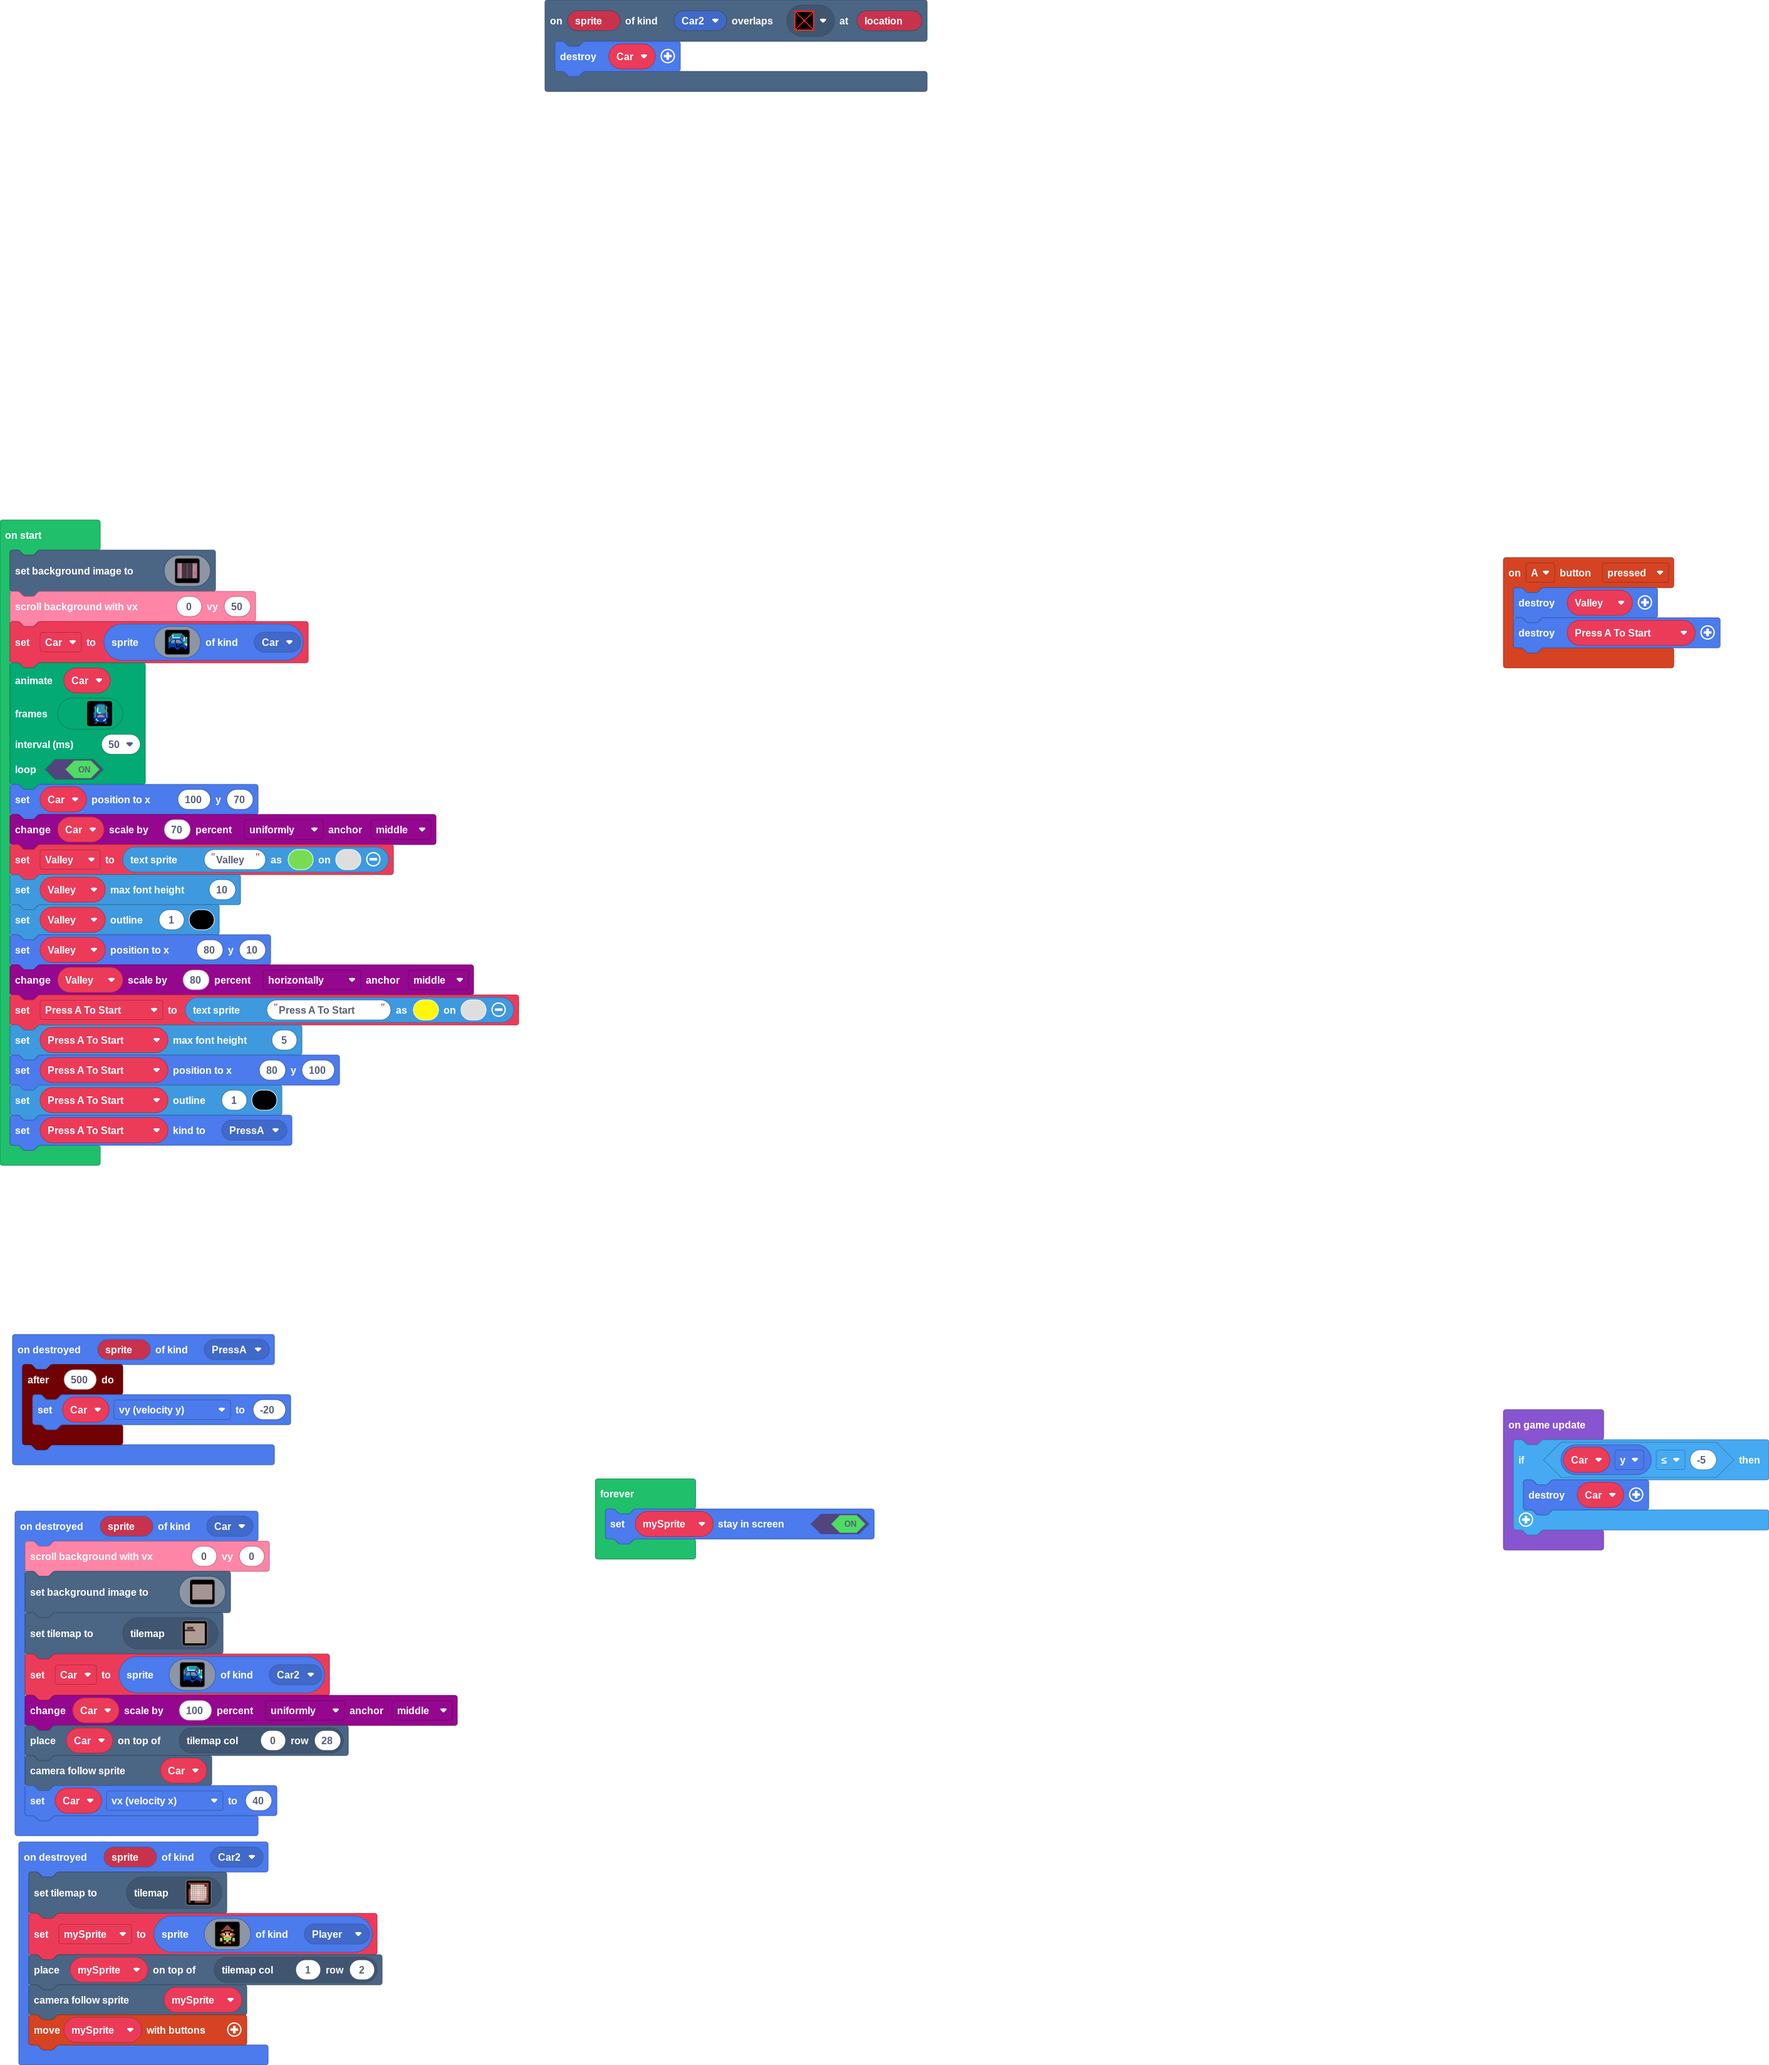
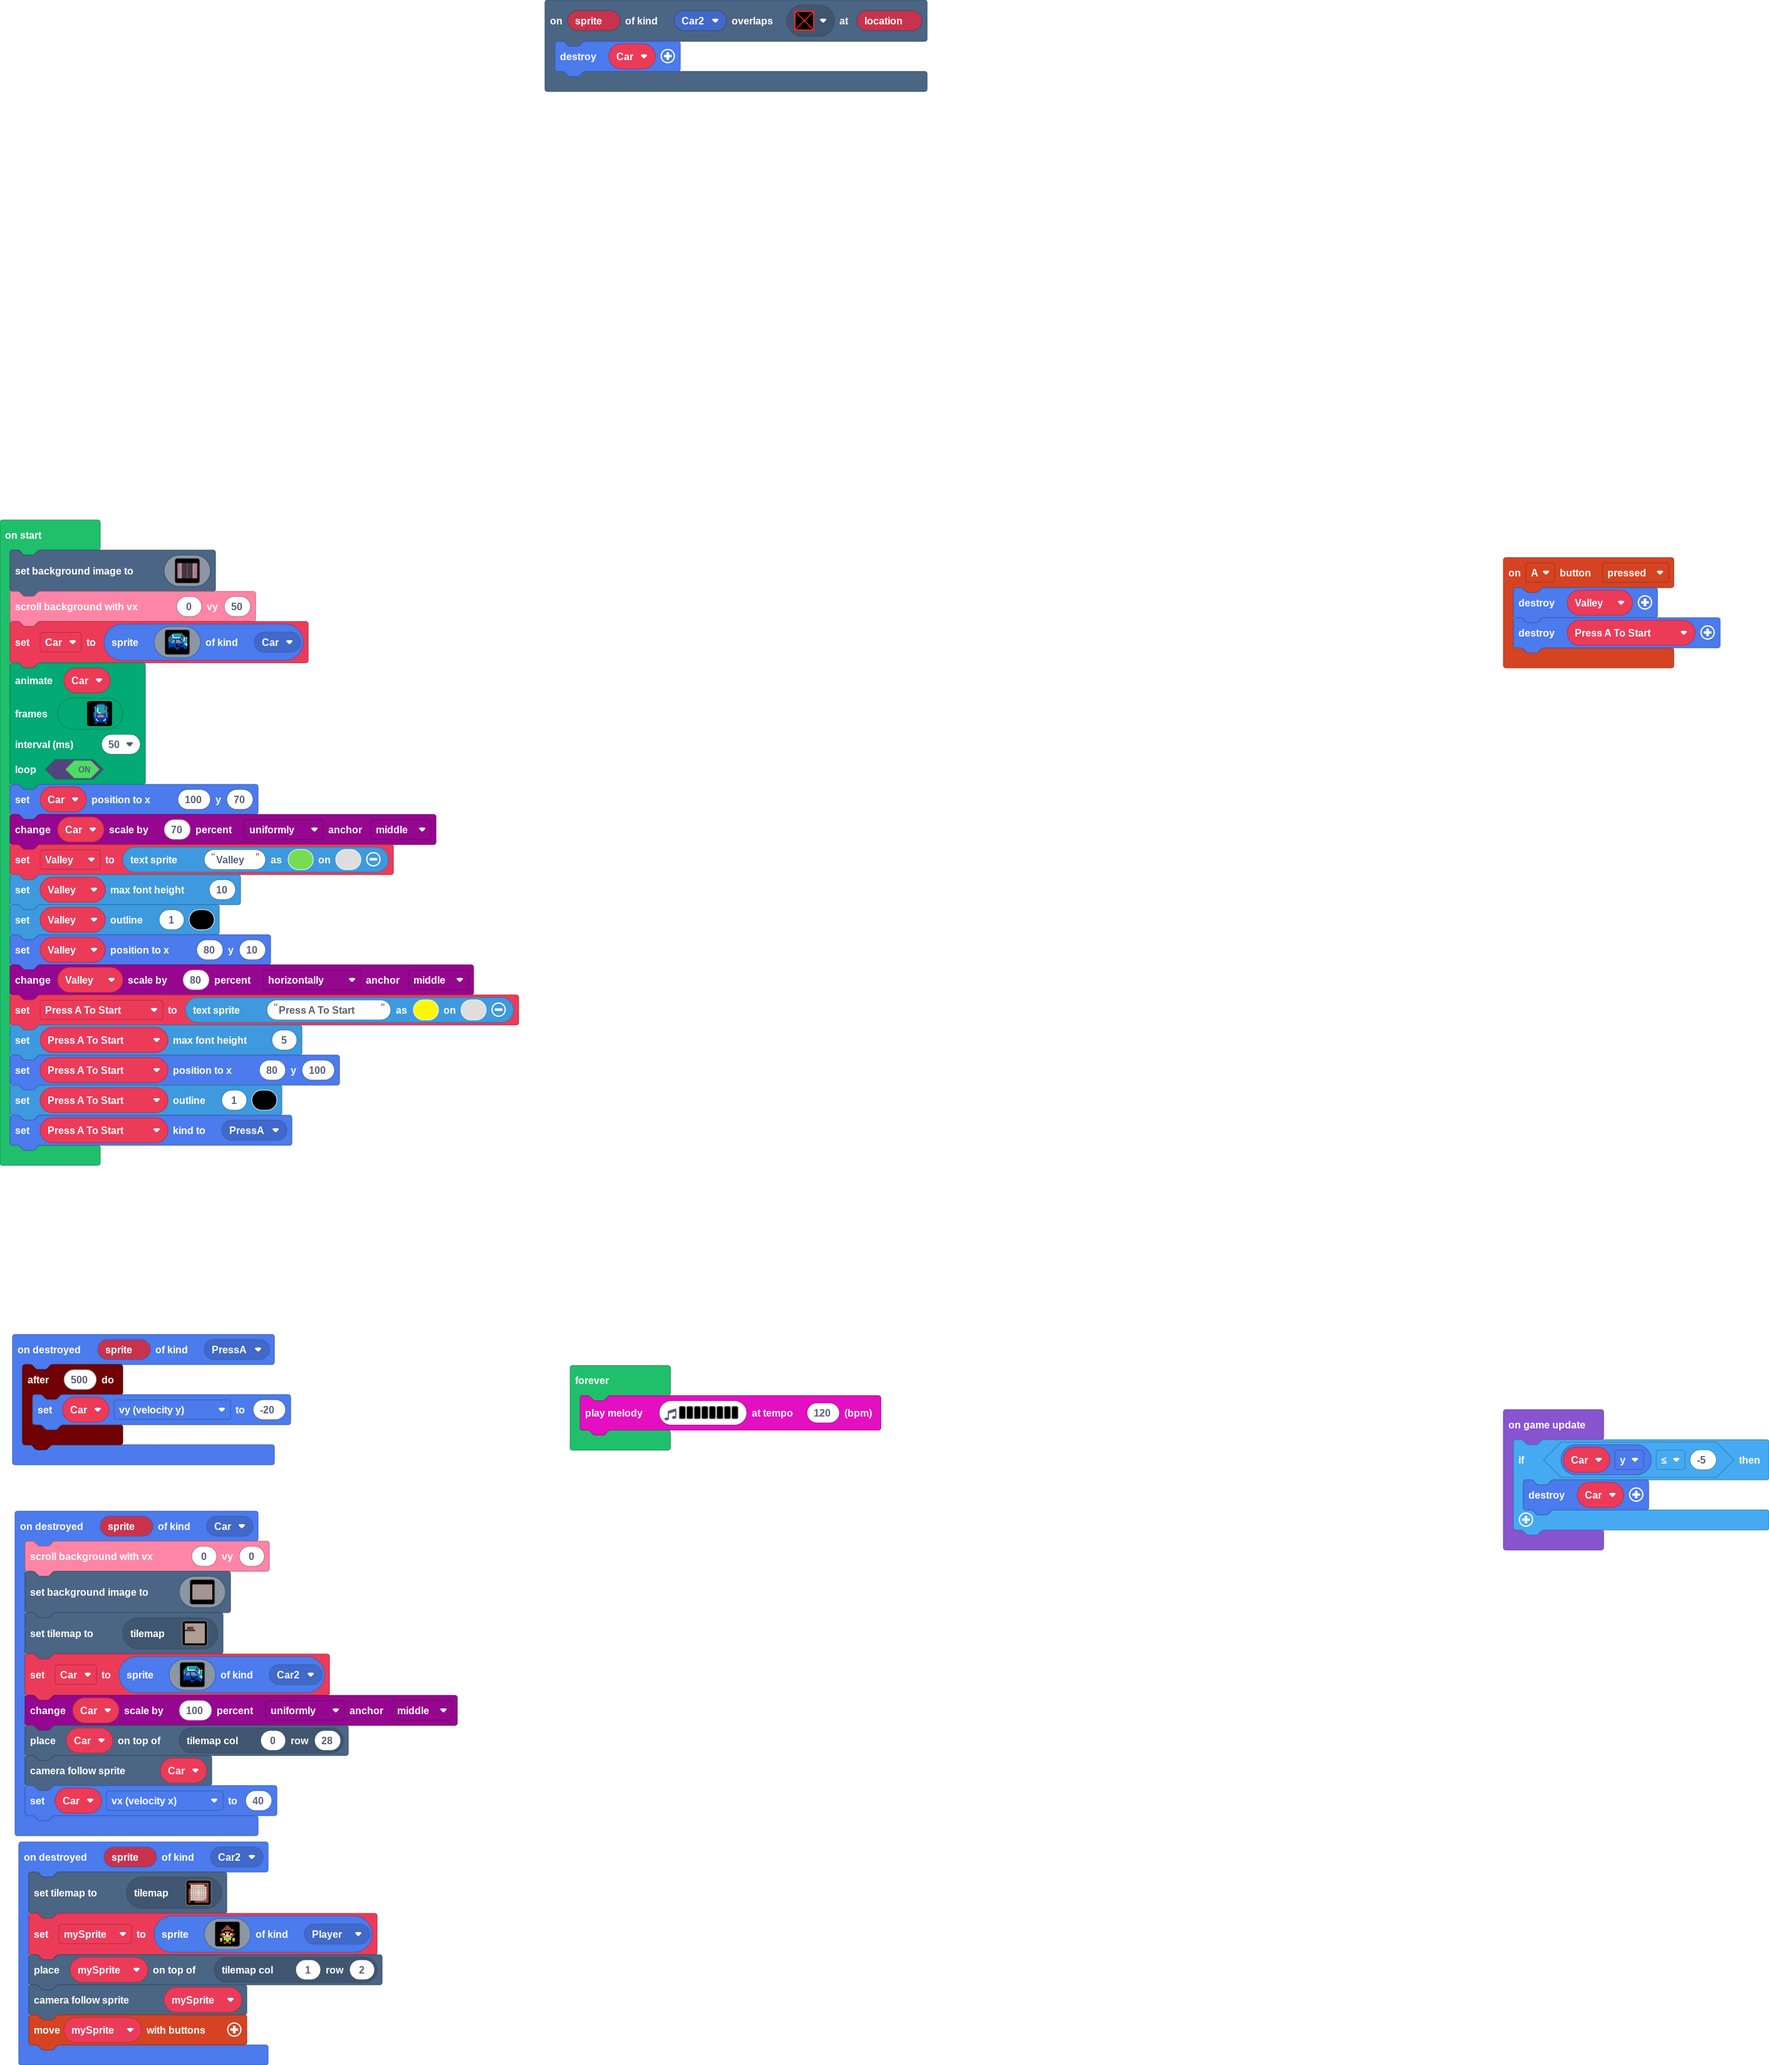
Update main.blocks, main.ts

Changed region(s): [[0.3116, 0.6562, 0.4986, 0.7812]]

diff --git a/main.ts b/main.ts
@@ -424,5 +424,5 @@ game.onUpdate(function () {
     }
 })
 forever(function () {
-    mySprite.setStayInScreen(true)
+    music.playMelody("G D F D E A F B ", 120)
 })
